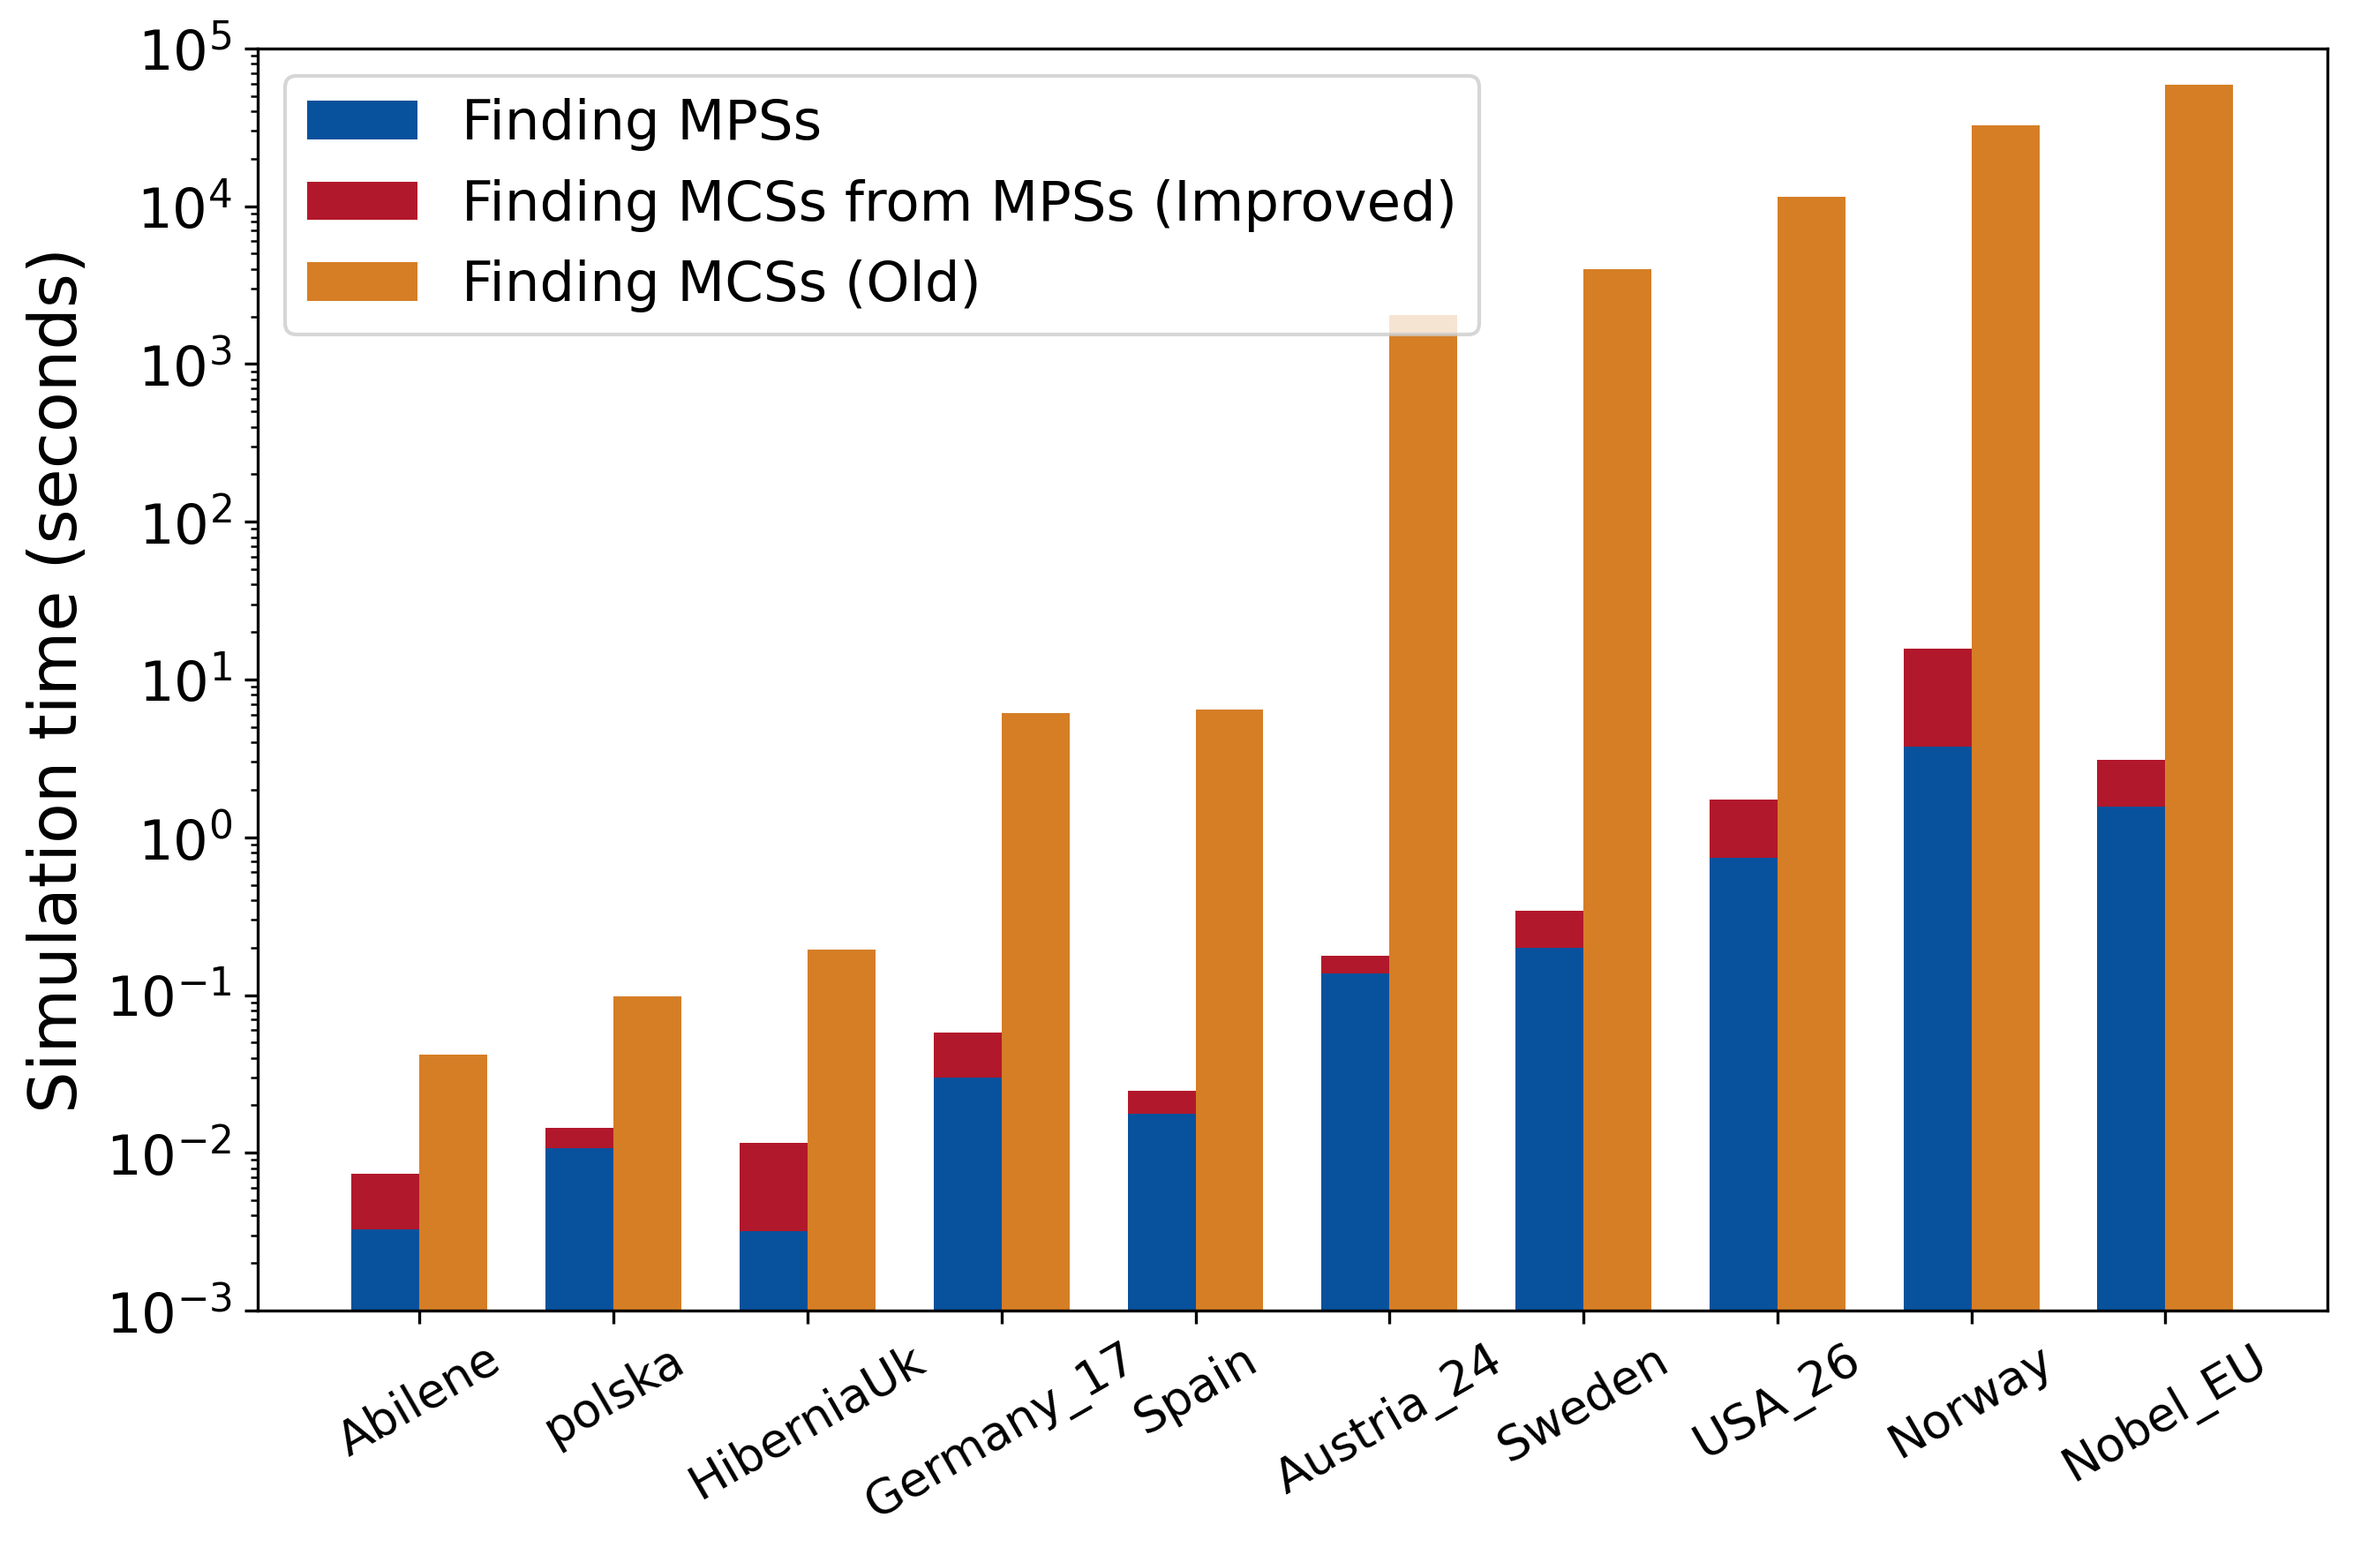
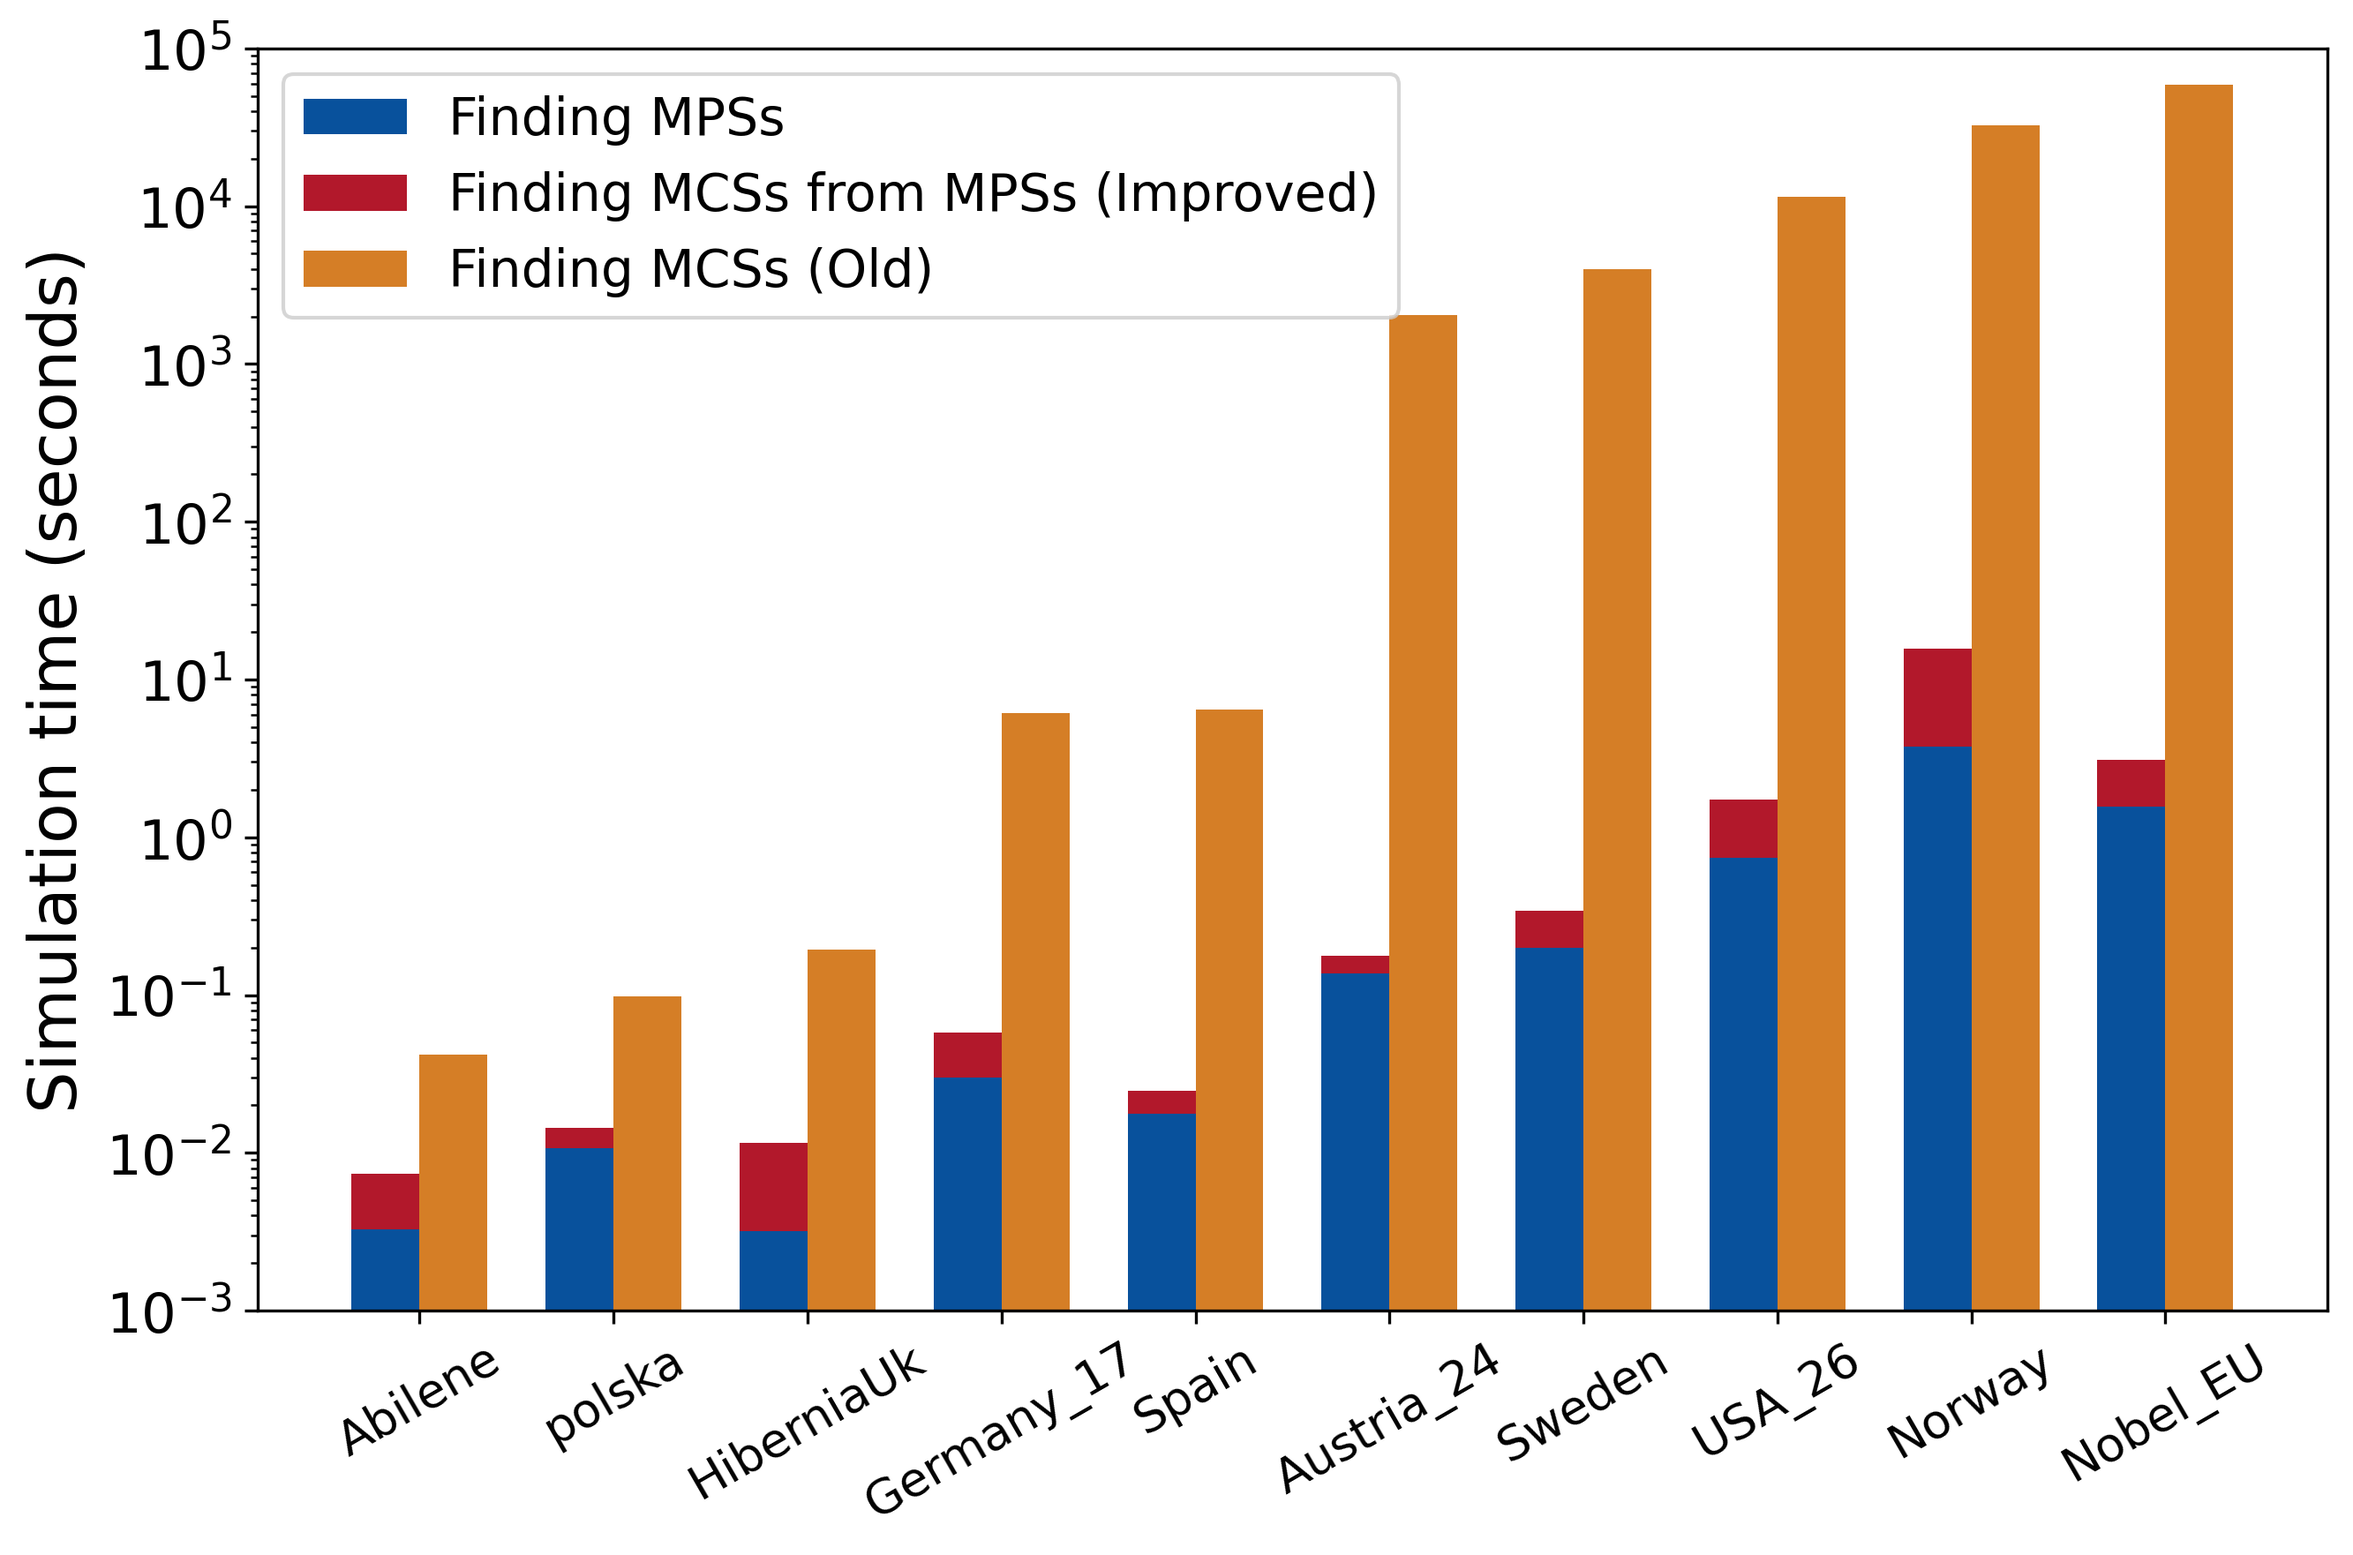
update plots

Changed region(s): [[0.1245, 0.0624, 0.6227, 0.2185]]

diff --git a/plots/paper_faster_mincutset/plot.py b/plots/paper_faster_mincutset/plot.py
@@ -31,9 +31,9 @@ def plot_1(plot_name, topologies=None):
         combination_times.append(combination_time)
         minimalpaths_times.append(minimalpaths_time)
 
-    print("CNF times:", cnf_times)
-    print("Combination times:", combination_times)
-    print("Minimal paths times:", minimalpaths_times)
+    # print("CNF times:", cnf_times)
+    # print("Combination times:", combination_times)
+    # print("Minimal paths times:", minimalpaths_times)
 
     # Draw the plot
     fig, ax1 = plt.subplots(figsize=FIG_SIZE)
@@ -80,7 +80,7 @@ def plot_1(plot_name, topologies=None):
         handles,
         labels,
         loc="upper left",
-        fontsize=15,
+        fontsize=14,
     )
 
     # Save the plot
